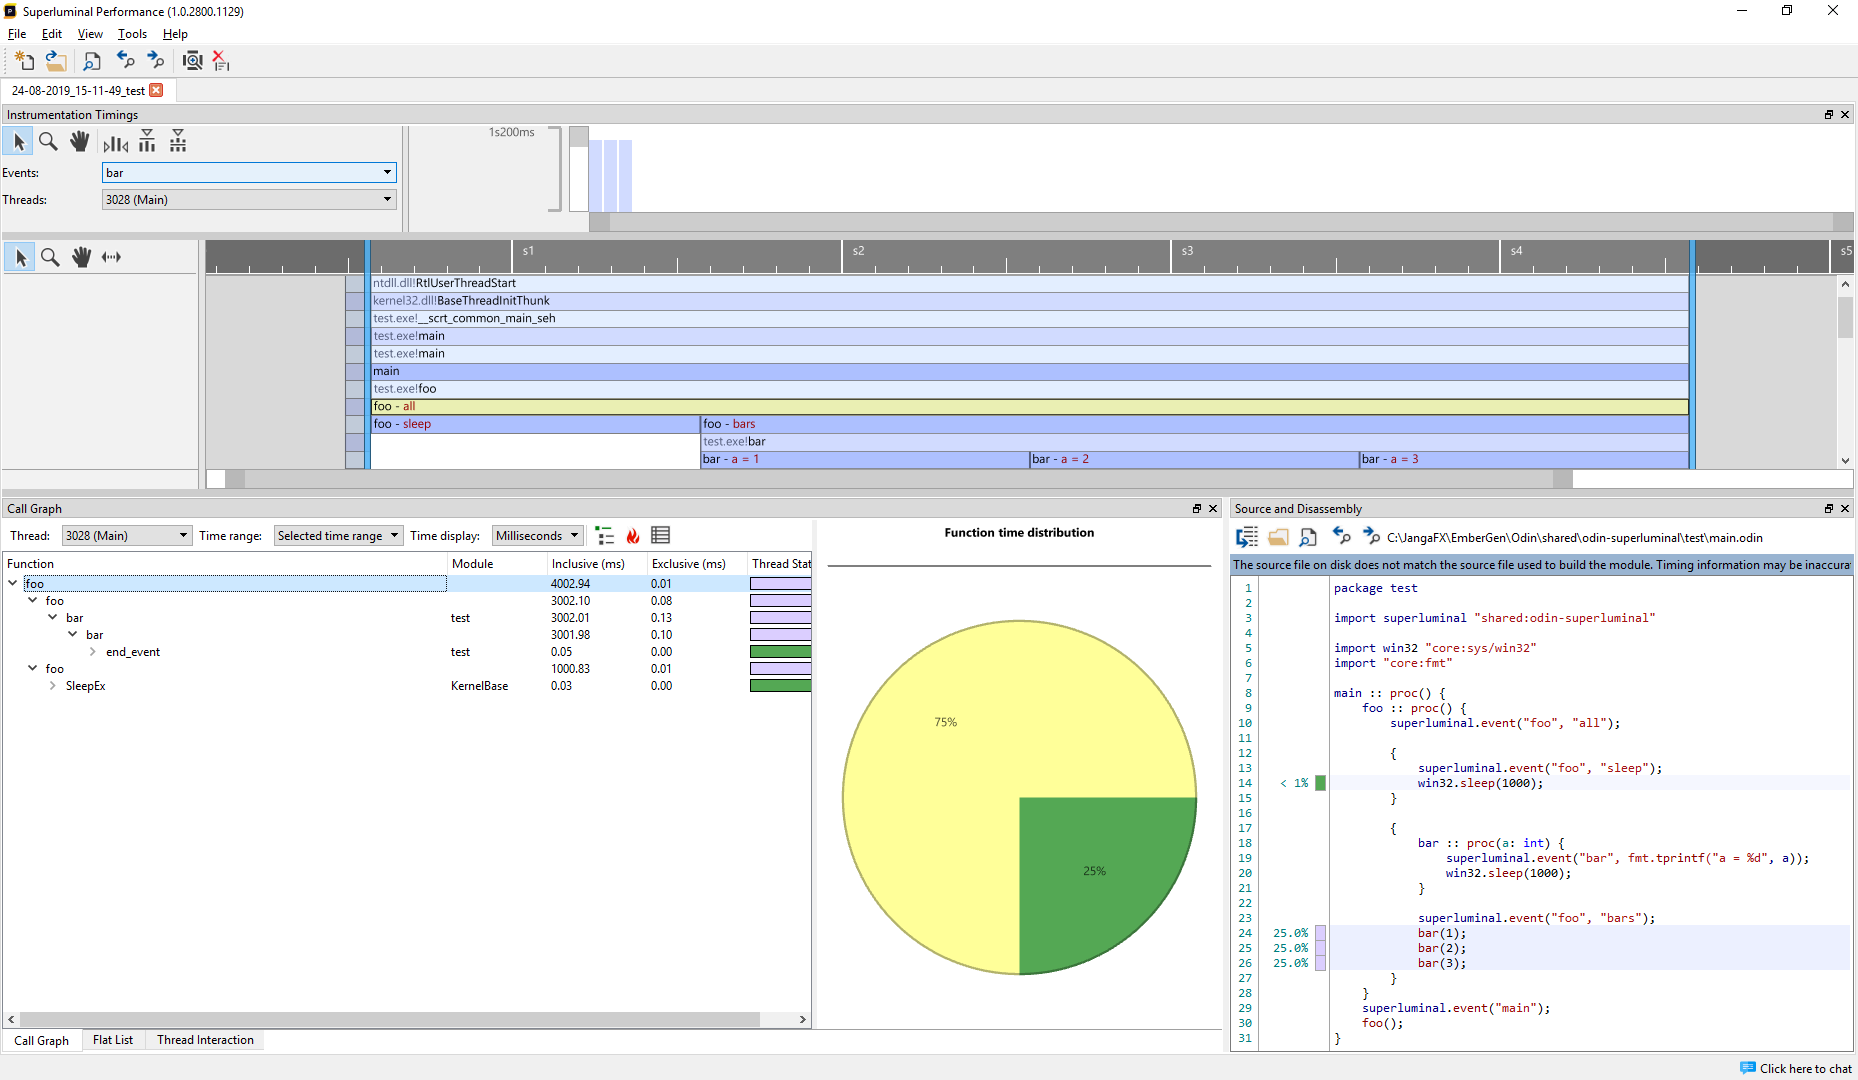
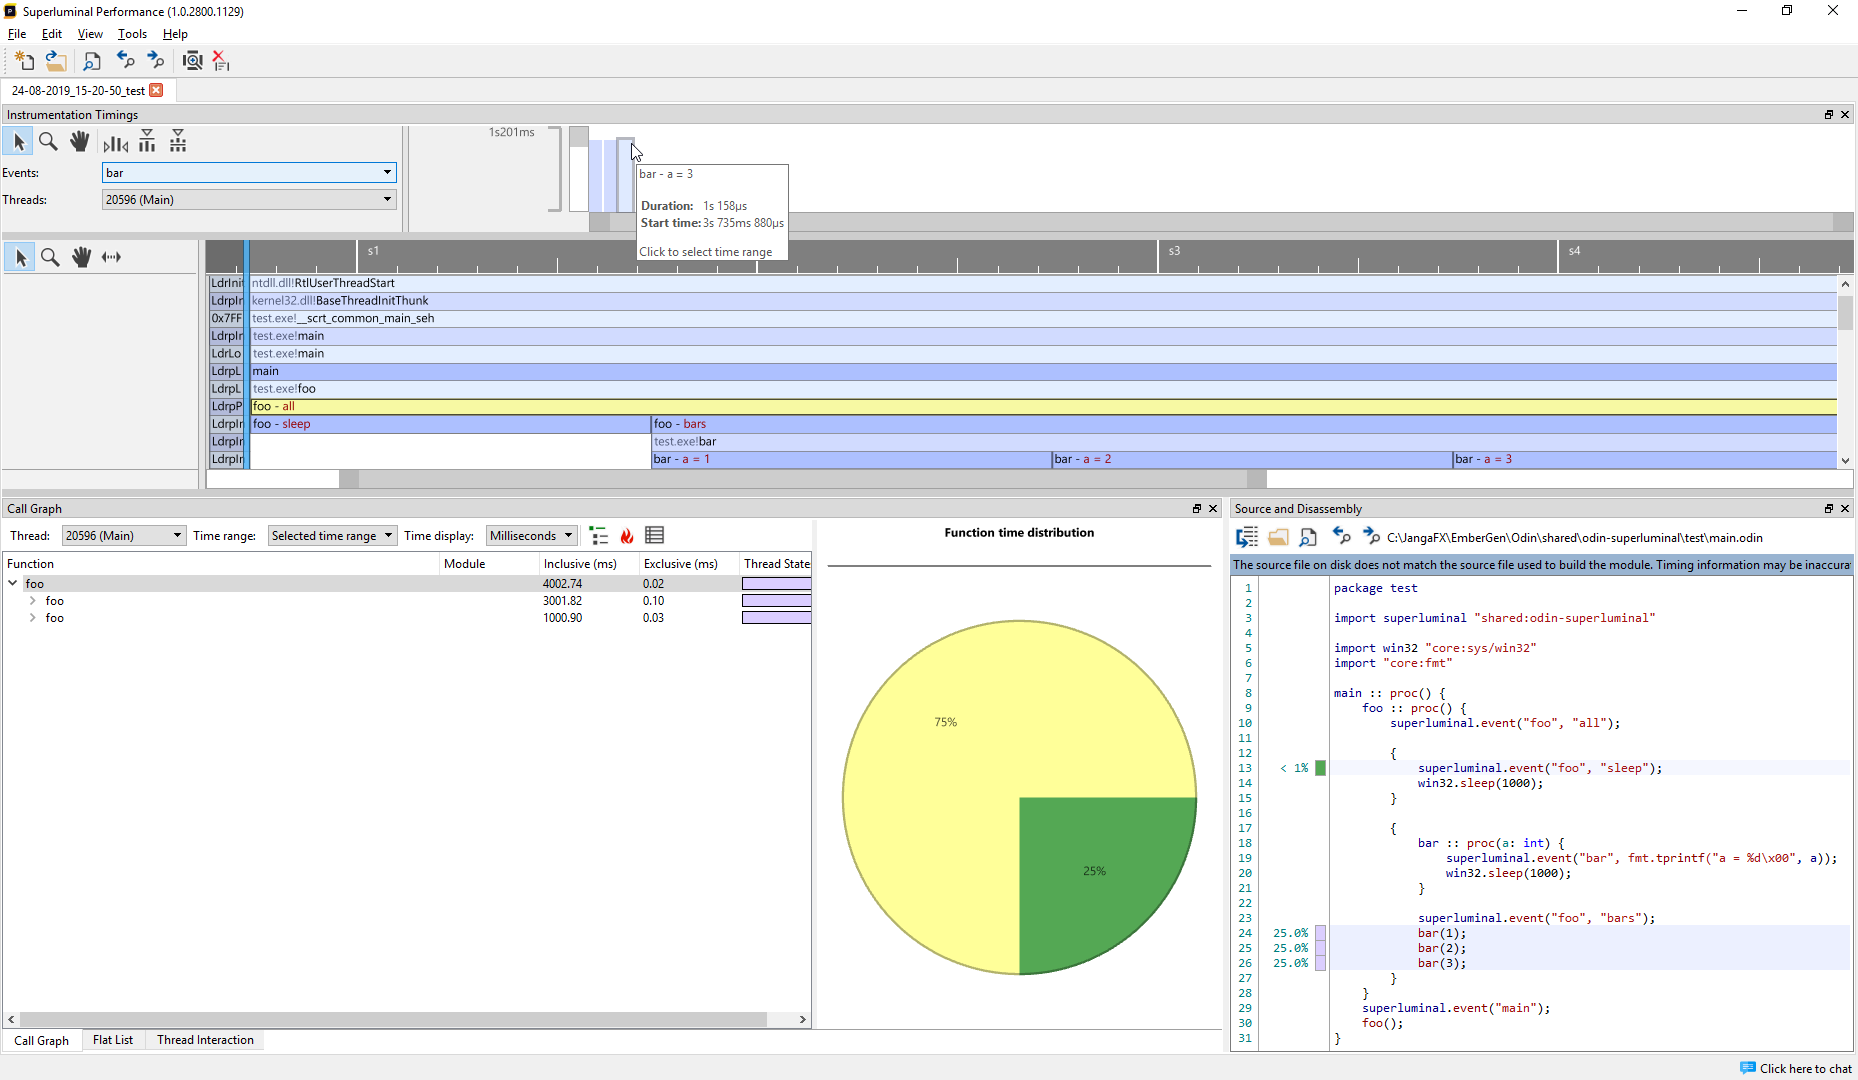
Update everything

diff --git a/README.md b/README.md
@@ -2,7 +2,41 @@
 
 Odin bindings and wrapper for [Superluminal Performance](https://www.superluminal.eu/). This is achieved by making a thin C wrapper that around PerformanceAPI that is callable from Odin. Only the `BeginEvent` and `EndEvent` part of the API is available.
 
+The procedure `superluminal.event` an overload of the `superluminal.event_id` and `superluminal.event_id_and_data` procedures, which takes 
+
+## API
+
+```go
+package superluminal
+
+foreign import superluminal { "lib/superluminal.lib" };
+
+foreign superluminal {
+    begin_event :: proc(inID: cstring) ---;
+    begin_event_data :: proc(inID, inData: cstring) ---;
+    end_event :: proc() ---;
+}
+
+@(deferred_none=end_event)
+event_id :: proc(inID: string) {
+    begin_event(cast(cstring)&inID[0]);
+}
+
+@(deferred_none=end_event)
+event_id_and_data :: proc(inID, inData: string) {
+    begin_event_data(cast(cstring)&inID[0], cast(cstring)&inData[0]);
+}
+
+event :: proc{event_id, event_id_and_data};
+```
+
+Note that both overloads in the `event` procedure implicitly defer a call to  `end_event` at the end of the *callee's* scope. 
+
+**Warning: This assume that all passed strings are zero-terminated. This is the case for string constants and literals, but not necessarily in heap-allocated strings.** 
+
 ## Example
+
+The following is compiled with `odin build . -debug`:
 
 ```go
 package test 
@@ -23,7 +57,7 @@ main :: proc() {
         
         {
             bar :: proc(a: int) {
-                superluminal.event("bar", fmt.tprintf("a = %d", a));
+                superluminal.event("bar", fmt.tprintf("a = %d\x00", a));
                 win32.sleep(1000);
             }
 
